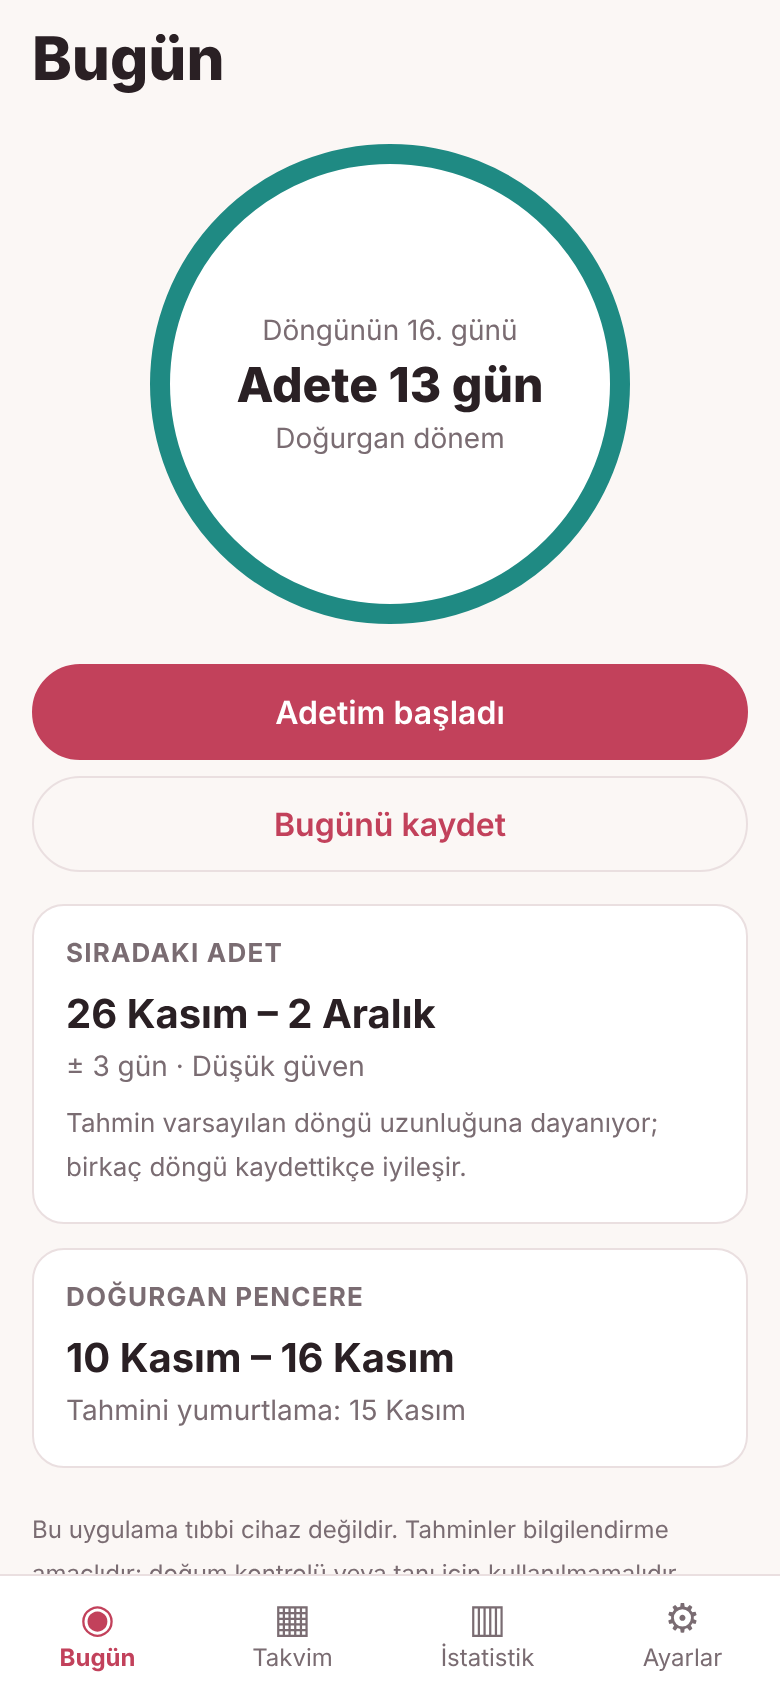
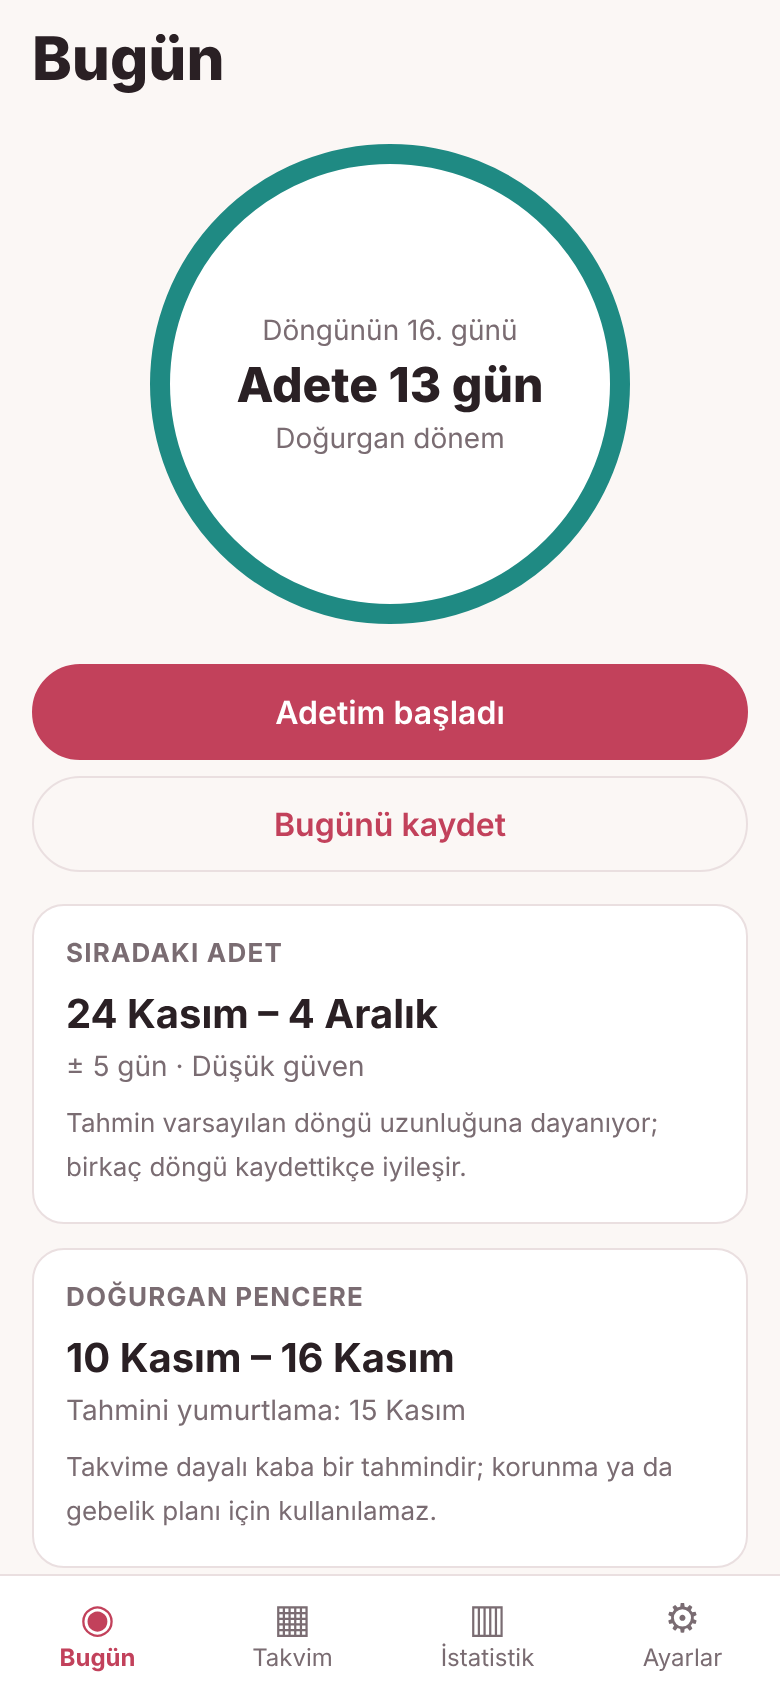
Döngüm: testler güncellendi, EAS yapılandırması, rapor ve yayınlama kılavuzu
Claude-Session: https://claude.ai/code/session_01Dk1UWNKzrSMdkEUify6SXg

Changed region(s): [[0.0308, 0.8626, 0.8615, 0.9242], [0.3692, 0.5853, 0.5538, 0.6161], [0.1231, 0.5853, 0.1538, 0.6161]]

diff --git a/projeler/adet-takibi/app/e2e/smoke.js b/projeler/adet-takibi/app/e2e/smoke.js
@@ -36,8 +36,14 @@ const NOW = new Date(2026, 10, 16, 10, 0, 0); // 16 Kasım 2026
   // Bugün: 1 Kasım başlangıç, 28 gün → 29 Kasım; bugün döngünün 16. günü
   await id('headline').waitFor();
   assert.equal(await text('headline'), 'Adete 13 gün');
+  assert.match(await text('next-period'), /24 Kasım – 4 Aralık/);
+  // Doğurgan pencere varsayılan olarak kapalı; Ayarlar'dan açılır
+  assert.equal(await id('fertile').count(), 0);
+  assert.equal(await id('phase').count(), 0);
+  await id('tab-settings').click();
+  await id('set-fertility').click();
+  await id('tab-today').click();
   assert.equal(await text('phase'), 'Doğurgan dönem');
-  assert.match(await text('next-period'), /26 Kasım – 2 Aralık/);
   assert.match(await text('fertile'), /10 Kasım – 16 Kasım/);
   await shot('03-bugun');
 
@@ -45,6 +51,8 @@ const NOW = new Date(2026, 10, 16, 10, 0, 0); // 16 Kasım 2026
   await id('log-today').click();
   await id('sym-cramps').click();
   await id('mood-calm').click();
+  await id('log-bbt').fill('98.6');
+  await id('bbt-error').waitFor();
   await id('log-bbt').fill('36,6');
   await id('log-note').fill('deneme notu');
   await shot('04-kayit');
@@ -95,7 +103,17 @@ const NOW = new Date(2026, 10, 16, 10, 0, 0); // 16 Kasım 2026
   await id('import-text').fill('{"bozuk":true}');
   await id('import-ok').click();
   await id('import-error').waitFor();
-  await page.getByText('Vazgeç').last().click();
+  await id('import-cancel').click();
+  // Geçerli yedek: önce özet/onay, sonra değiştirme; gelecekteki kayıt atılır
+  await id('set-import').click();
+  await id('import-text').fill('{"version":1,"settings":{},"logs":{"2026-11-10":{"flow":"heavy"},"2030-01-01":{"flow":"heavy"}}}');
+  await id('import-ok').click();
+  await page.getByText('Yedekte 1 günlük kayıt var').waitFor();
+  await id('import-ok').click();
+  await id('settings-msg').waitFor();
+  await id('tab-stats').click();
+  assert.equal(await text('stat-count'), '0');
+  await id('tab-settings').click();
   await id('set-delete').click();
   await id('delete-yes').click();
   await id('lang-tr').waitFor(); // onboarding'e döndü

diff --git a/projeler/adet-takibi/YAYINLAMA.md b/projeler/adet-takibi/YAYINLAMA.md
@@ -1,0 +1,59 @@
+# Döngüm — açma ve mağazalara yükleme
+
+## 1. Bilgisayarda açma
+Gerekli: Node.js 20+ (https://nodejs.org).
+
+```bash
+cd app
+npm install
+npx expo start
+```
+- Telefonda: App Store / Play Store'dan **Expo Go** kur, terminaldeki QR kodu okut.
+- Tarayıcıda: terminalde `w` tuşuna bas.
+- Testler: `npm test` (birim), `npm run typecheck`.
+
+## 2. Mağaza öncesi senin yapman gerekenler
+1. **Hesaplar** (ücretli, onay birkaç gün sürebilir):
+   - Apple Developer Program: yıllık 99 USD — https://developer.apple.com/programs/
+   - Google Play Console: tek seferlik 25 USD — https://play.google.com/console
+   - Expo hesabı (ücretsiz): https://expo.dev
+2. **Uygulama kimliği:** `app/app.json` içindeki `ios.bundleIdentifier` ve `android.package` şu an `app.dongum`. Kendi alan adına göre değiştir (ör. `com.adin.dongum`); yayından sonra değiştirilemez.
+3. **Simge ve açılış görseli:** `app/assets/` altındakiler Expo'nun varsayılan görselleri. Kendi 1024×1024 simgenle değiştir.
+4. **Gizlilik politikası sayfası:** iki mağaza da herkese açık bir URL ister. İçerik basit: veri yalnızca cihazda, sunucuya hiçbir şey gönderilmiyor, üçüncü taraf yok.
+5. **Gerçek telefonda deneme:** bildirimler, uygulama kilidi ve yedek paylaşımı yalnızca web önizlemesinde değil, telefonda denenmeli (henüz denenmedi).
+
+## 3. Derleme ve yükleme (EAS)
+```bash
+npm install -g eas-cli
+eas login
+cd app
+eas init
+```
+Deneme APK'sı (Android telefona doğrudan kurulur):
+```bash
+eas build --profile preview --platform android
+```
+Mağaza derlemeleri:
+```bash
+eas build --profile production --platform android
+eas build --profile production --platform ios
+```
+Mağazaya gönderme:
+```bash
+eas submit --platform android
+eas submit --platform ios
+```
+- iOS derlemesi için Mac gerekmez; EAS bulutta derler ve Apple hesabınla imzalar.
+- Google Play, yeni kişisel hesaplarda yayından önce **12 test kullanıcısıyla 14 gün kapalı test** ister.
+- İlk Android yüklemesi Play Console'dan elle yapılır (`.aab` dosyasını yükle); sonrakiler `eas submit` ile gider.
+
+## 4. Mağaza formlarında dikkat
+- **Veri beyanı:** Apple "Data Not Collected", Google Data safety "veri toplanmıyor/paylaşılmıyor" (uygulama hiçbir veriyi cihaz dışına göndermiyor).
+- **Kategori:** Sağlık ve Fitness. Açıklamada **doğum kontrolü, gebe kalma ya da tanı iddiası yazma**; bu iddialar uygulamayı tıbbi cihaz kapsamına sokar.
+- Uygulama içi "tıbbi cihaz değildir" uyarısı mevcut; mağaza açıklamasına da ekle.
+
+## 5. Bilinen eksikler
+- Veri cihazda şifrelenmeden duruyor (işletim sisteminin korumasına dayanıyor). Şifreli veritabanı sonraki adım.
+- Yedek dosyası şifresiz.
+- Hamilelik, perimenopoz, partner paylaşımı, giyilebilir cihaz bağlantısı yok.
+- Ayrıntılı araştırma: `arastirma/` klasörü (yayın öncesi doğrulanacaklar listesi `02-tibbi-gizlilik-teknik.md` sonunda).

diff --git a/projeler/adet-takibi/RAPOR.md b/projeler/adet-takibi/RAPOR.md
@@ -1,0 +1,24 @@
+# Döngüm — rapor
+
+Gizlilik öncelikli adet takibi uygulaması. Expo SDK 58, React Native 0.88, TypeScript. Türkçe/İngilizce.
+
+## Yapılanlar
+- Karşılama, Bugün, Takvim, Günlük kayıt, İstatistik, Ayarlar ekranları.
+- Tahmin: son 6 döngünün yakın tarihe ağırlıklı ortalaması, ± gün belirsizlik ve güven düzeyi; aykırı döngüler ortalamadan dışlanır ama uyarı üretir.
+- Yerel hatırlatmalar (gizli metin seçeneği), uygulama kilidi, dosya olarak yedek, onaylı içe aktarma, tüm veriyi silme.
+- Veriler yalnızca cihazda (AsyncStorage); ağ isteği, hesap, analitik yok.
+
+## Doğrulama
+- `npm test`: 35 birim testi geçiyor. `npm run typecheck`: hatasız.
+- `node e2e/smoke.js`: web derlemesinde uçtan uca akış geçiyor (ekran görüntüleri `ekran-goruntuleri/`).
+- Gerçek iOS/Android cihazda denenmedi.
+
+## Varsayımlar
+- Doğurgan pencere varsayılan olarak kapalı; açılınca "korunma için kullanılamaz" uyarısıyla gösterilir.
+- Lekelenme adet günü sayılmaz ama adeti bölmez.
+- Normal aralıklar: döngü 21–35 gün, kanama ≤ 8 gün, döngüler arası fark ≤ 9 gün (FIGO/NHS).
+
+## Denetim
+Denetçi ajanının 15 bulgusu uygulandı. Uygulanmayan: Face ID izin metninin İngilizce yerelleştirmesi.
+
+Açma ve mağazaya yükleme adımları: `YAYINLAMA.md`.
